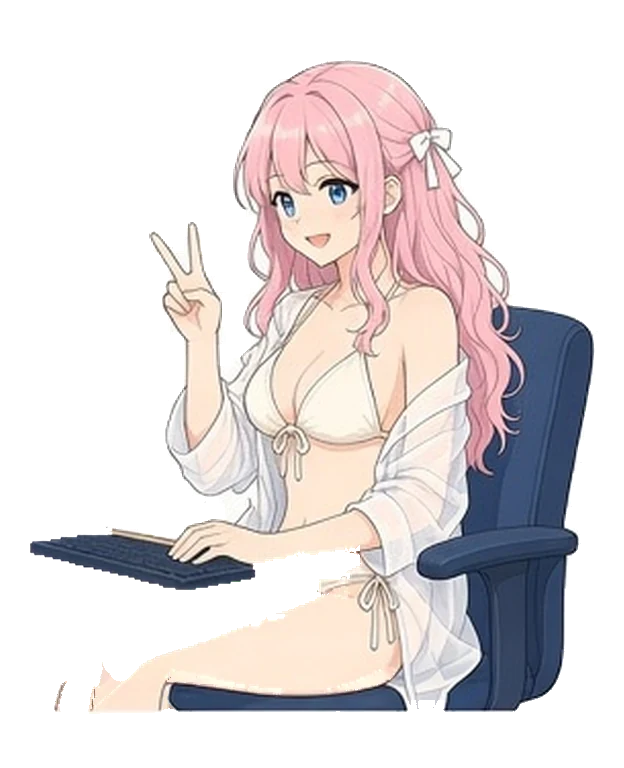
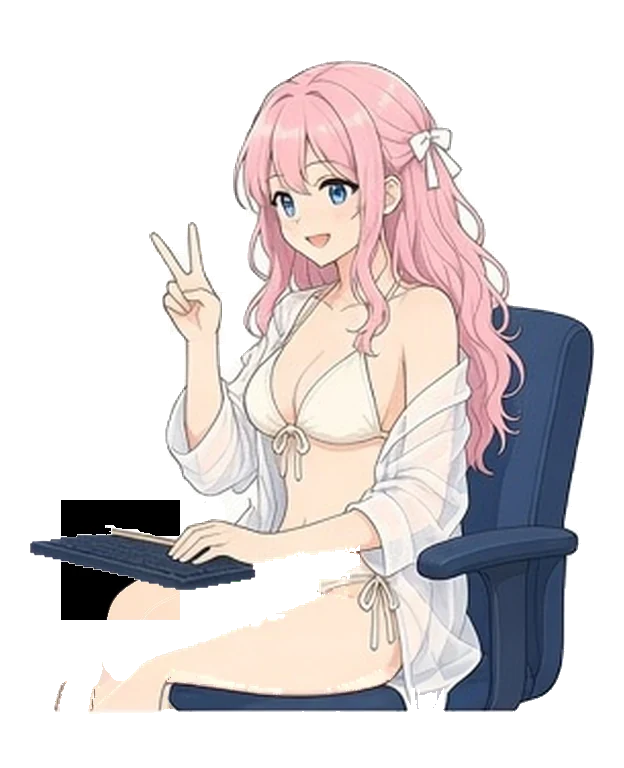
補齊秘書慶祝立繪腰部透明區並穩定跳躍貼圖切換
以拍手參考圖填補比讚等立繪腰洞，並在慶祝期間避免重設立繪位移與跳躍零點判斷誤差。

Changed region(s): [[0.0913, 0.625, 0.3045, 0.8125], [0.6699, 0.875, 0.7003, 0.9375]]

diff --git a/server/src/main/resources/public/js/private-team-scene.js b/server/src/main/resources/public/js/private-team-scene.js
@@ -1994,8 +1994,13 @@ export function mountPrivateTeamScene(canvas, opts) {
     secretarySprite.material.map = tex;
     secretarySprite.material.needsUpdate = true;
     if (oldMap && oldMap !== tex) oldMap.dispose();
-    secretarySprite.position.set(0, spriteBaseY, 0);
-    secretarySprite.rotation.set(0, 0, 0);
+    if (dancePlayback) {
+      secretarySprite.position.x = 0;
+      secretarySprite.position.z = 0;
+    } else {
+      secretarySprite.position.set(0, spriteBaseY, 0);
+      secretarySprite.rotation.set(0, 0, 0);
+    }
     currentSpriteUrl = url;
   }
 
@@ -2363,7 +2368,8 @@ export function mountPrivateTeamScene(canvas, opts) {
             danceDisplayFrame = frameKey;
             if (st.url) applySecretarySpriteUrl(st.url);
           }
-          dancePlayback.jumpOffset = secretaryCelebrateJumpOffsetAt(elapsed);
+          dancePlayback.jumpOffset =
+            st.kind === 'jump' ? secretaryCelebrateJumpOffsetAt(elapsed) : null;
         }
       }
     } else if (
@@ -2413,7 +2419,7 @@ export function mountPrivateTeamScene(canvas, opts) {
       let extraY = 0;
       let leanZ = 0;
       if (!reducedMotion) {
-        if (dancePlayback && dancePlayback.jumpOffset) {
+        if (dancePlayback && dancePlayback.jumpOffset != null) {
           extraY = dancePlayback.jumpOffset;
         } else {
           extraY = breath;

diff --git a/scripts/fix_secretary_status_sprites.py b/scripts/fix_secretary_status_sprites.py
@@ -27,7 +27,24 @@ EXTRA_SPRITES = (
     "secretary-typing-b.webp",
     "secretary-wave.webp",
     "secretary-yeah.webp",
+    "secretary-read.webp",
+    "secretary-phone.webp",
 )
+
+WAIST_GAP_SPRITES = frozenset(
+    {
+        "secretary-yeah.webp",
+        "secretary-idle-tea.webp",
+        "secretary-read.webp",
+        "secretary-phone.webp",
+    }
+)
+
+REF_WAIST_SPRITE = "secretary-clap-a.webp"
+
+# 比讚跳躍時鍵盤與大腿間的透明腰洞（與 issue 描述列區間對齊）
+CELEBRATE_WAIST_BOX = (552, 590, 80, 126)
+WAIST_GAP_BOX = (500, 620, 60, 180)
 
 
 def dilate(mask: np.ndarray, radius: int = 1) -> np.ndarray:
@@ -338,6 +355,47 @@ def repair_foot_and_fringe(alpha: np.ndarray, rgb: np.ndarray) -> Tuple[np.ndarr
     return a, c
 
 
+def repair_waist_gaps_from_reference(
+    alpha: np.ndarray, rgb: np.ndarray, ref: np.ndarray, box: Tuple[int, int, int, int]
+) -> Tuple[np.ndarray, np.ndarray]:
+    """Fill exterior-connected waist transparency using a pose with a closed torso (clap-a)."""
+    a = alpha.copy()
+    c = rgb.copy()
+    ref_rgb = ref[:, :, :3]
+    ref_a = ref[:, :, 3]
+    matte_ref = is_matte_rgb(ref)
+    y0, y1, x0, x1 = box
+    h, w = a.shape
+    y1 = min(y1, h)
+    x1 = min(x1, w)
+    for y in range(y0, y1):
+        for x in range(x0, x1):
+            if a[y, x] >= 12:
+                continue
+            if ref_a[y, x] < 180:
+                continue
+            if matte_ref[y, x] or is_brown_rgb(int(ref_rgb[y, x, 0]), int(ref_rgb[y, x, 1]), int(ref_rgb[y, x, 2])):
+                continue
+            c[y, x] = ref_rgb[y, x]
+            a[y, x] = int(ref_a[y, x])
+    rem = np.zeros_like(a, dtype=bool)
+    rem[y0:y1, x0:x1] = True
+    rem &= a < 12
+    if int(rem.sum()):
+        _paint_from_skin(c, a, rem)
+    return a, c
+
+
+def celebrate_waist_gap_pixels(alpha: np.ndarray) -> int:
+    y0, y1, x0, x1 = CELEBRATE_WAIST_BOX
+    return int((alpha[y0:y1, x0:x1] < 12).sum())
+
+
+def waist_gap_band_pixels(alpha: np.ndarray) -> int:
+    y0, y1, x0, x1 = WAIST_GAP_BOX
+    return int((alpha[y0:y1, x0:x1] < 12).sum())
+
+
 def snap_alpha(alpha: np.ndarray) -> np.ndarray:
     a = alpha.copy()
     a[a < 12] = 0
@@ -345,10 +403,15 @@ def snap_alpha(alpha: np.ndarray) -> np.ndarray:
     return a
 
 
-def fix_sprite(im: Image.Image) -> Image.Image:
+def fix_sprite(im: Image.Image, name: str = "") -> Image.Image:
     arr = np.array(im.convert("RGBA"))
     rgb = arr[:, :, :3].copy()
     alpha = arr[:, :, 3].copy()
+    if name in WAIST_GAP_SPRITES:
+        ref_path = ASSET_DIR / REF_WAIST_SPRITE
+        if ref_path.is_file():
+            ref = np.array(Image.open(ref_path).convert("RGBA"))
+            alpha, rgb = repair_waist_gaps_from_reference(alpha, rgb, ref, WAIST_GAP_BOX)
     alpha, rgb = repair_foot_and_fringe(alpha, rgb)
     alpha, rgb = inpaint_holes(alpha, rgb, max_passes=48)
     alpha = snap_alpha(alpha)
@@ -397,6 +460,14 @@ def check_sprite(path: Path) -> List[str]:
     waist = waist_hole_pixels(alpha)
     if waist > 120:
         errs.append(f"{path.name}: {waist} waist enclosed holes (limit 120)")
+    if path.name in WAIST_GAP_SPRITES:
+        gap = celebrate_waist_gap_pixels(alpha)
+        if gap > 0:
+            errs.append(f"{path.name}: {gap} celebrate waist gap px (limit 0)")
+        band = waist_gap_band_pixels(alpha)
+        band_limit = 220 if path.name == "secretary-yeah.webp" else 320
+        if band > band_limit:
+            errs.append(f"{path.name}: {band} waist gap band px (limit {band_limit})")
     h = alpha.shape[0]
     sl = slice(h - 40, h)
     bad = (
@@ -527,15 +598,18 @@ def run_fix(extra: bool = False) -> None:
         if not path.exists():
             print(f"skip missing {name}", file=sys.stderr)
             continue
-        im = fix_sprite(Image.open(path))
+        im = fix_sprite(Image.open(path), name=name)
         save_webp(im, path)
         print(f"wrote {name}")
 
 
 def run_check() -> int:
     errs: List[str] = []
-    for name in STATUS_SPRITES:
-        errs.extend(check_sprite(ASSET_DIR / name))
+    checked = set(STATUS_SPRITES) | WAIST_GAP_SPRITES
+    for name in sorted(checked):
+        path = ASSET_DIR / name
+        if path.is_file():
+            errs.extend(check_sprite(path))
     if errs:
         for e in errs:
             print(e, file=sys.stderr)
